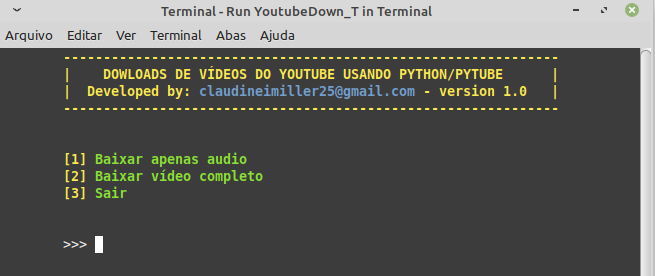
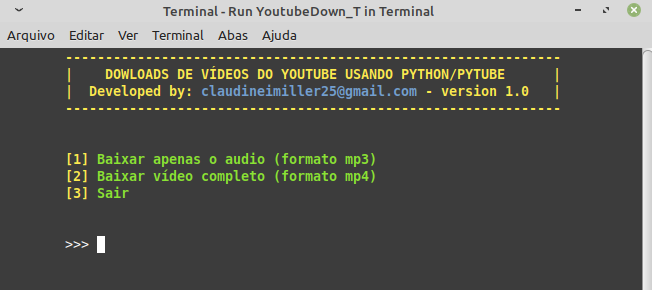
Implementado a função de conveter o arquivo de mp4 para mp3

diff --git a/main.py b/main.py
@@ -16,8 +16,10 @@ __status__ = "Prototype"
 
 import os
 import sys
+from numpy import around
 import requests
 
+from moviepy.editor import *
 from pytube import YouTube
 from pytube import Playlist
 from pytube.cli import on_progress
@@ -37,7 +39,7 @@ class App:
     def __init__(self):
         self.list_menu = [
             ['Baixar apenas 1 vídeo', 'Baixar playlist completa', 'Sair'],
-            ['Baixar apenas audio', 'Baixar vídeo completo', 'Sair']]
+            ['Baixar apenas o audio (formato mp3)', 'Baixar vídeo completo (formato mp4)', 'Sair']]
 
     def clear(self):
         '''Pequena função para limpar o terminal'''
@@ -92,7 +94,7 @@ class App:
 
         list_description = ['Título do vídeo:', 'Visualizações:',
                             'Duração:', 'Publicado em:', 'classificação:', 'Descrição:']
-        list_functions = [yt.title, yt.views, yt.length,
+        list_functions = [yt.title, yt.views, around(yt.length / 60, 2),
                           yt.publish_date, yt.rating, yt.description]
 
         for description, functions in zip(list_description, list_functions):
@@ -102,7 +104,10 @@ class App:
         if self._format == 'audio':
             print(f'\tBaixando o vídeo {yt.title} no formato "mp4"(audio)')
             yt.streams.filter(only_audio=True).first().download(
-                output_path='Downloads_audios')
+                output_path='Downloads_audios', filename='.'+yt.title+'.mp4')
+            
+            self.convert_mp4_to_mp3(f'Downloads_audios/.{yt.title}.mp4', f'Downloads_audios/{yt.title}.mp3')
+            self.delete_file(f'Downloads_audios/.{yt.title}.mp4')  
         else:
             print(
                 f'\n\tBaixando o vídeo {yt.title} no formato "mp4"(vídeo)\n\n')
@@ -185,6 +190,15 @@ class App:
         self.clear()
         sys.exit()
 
+    def convert_mp4_to_mp3(self, path_mp4, path_mp3): 
+        print('\n\n\tConvertendo para mp3, aguarde\n\n')    
+        mp4_without_frames = AudioFileClip(path_mp4)     
+        mp4_without_frames.write_audiofile(path_mp3)     
+        mp4_without_frames.close()
+
+    def delete_file(self, path_file):
+        if os.path.exists(path_file):
+            os.remove(path_file)
 
 if __name__ == '__main__':
     app = App()

diff --git a/README.md b/README.md
@@ -1,6 +1,6 @@
 # YoutubeDown_T
 #### Youtube Download Terminal - baixador de vídeos do Youtube via terminal usando a linguagem Python e a biblioteca pytube.
-##### O YoutubeDown_T é capaz de baixar vídeos individuais ou playlists inteiras.
+##### O YoutubeDown_T é capaz de baixar vídeos individuais ou playlists inteiras; o YoutubeDown_T oferece a opção de baixar vídeos no formato mp4, ou converte-los no formato audio (mp3).
 ###### Observação: Testado apenas no sistema linux usando o "Linux Mint".
 
 <p>Você pode clonar a pasta do projeto para obter todo o código em seu computador, bem como também você pode baixar a pasta "dist" e executar o programa compilado apenas com o comando ./YoutubeDown_t em seu terminal.</p>
